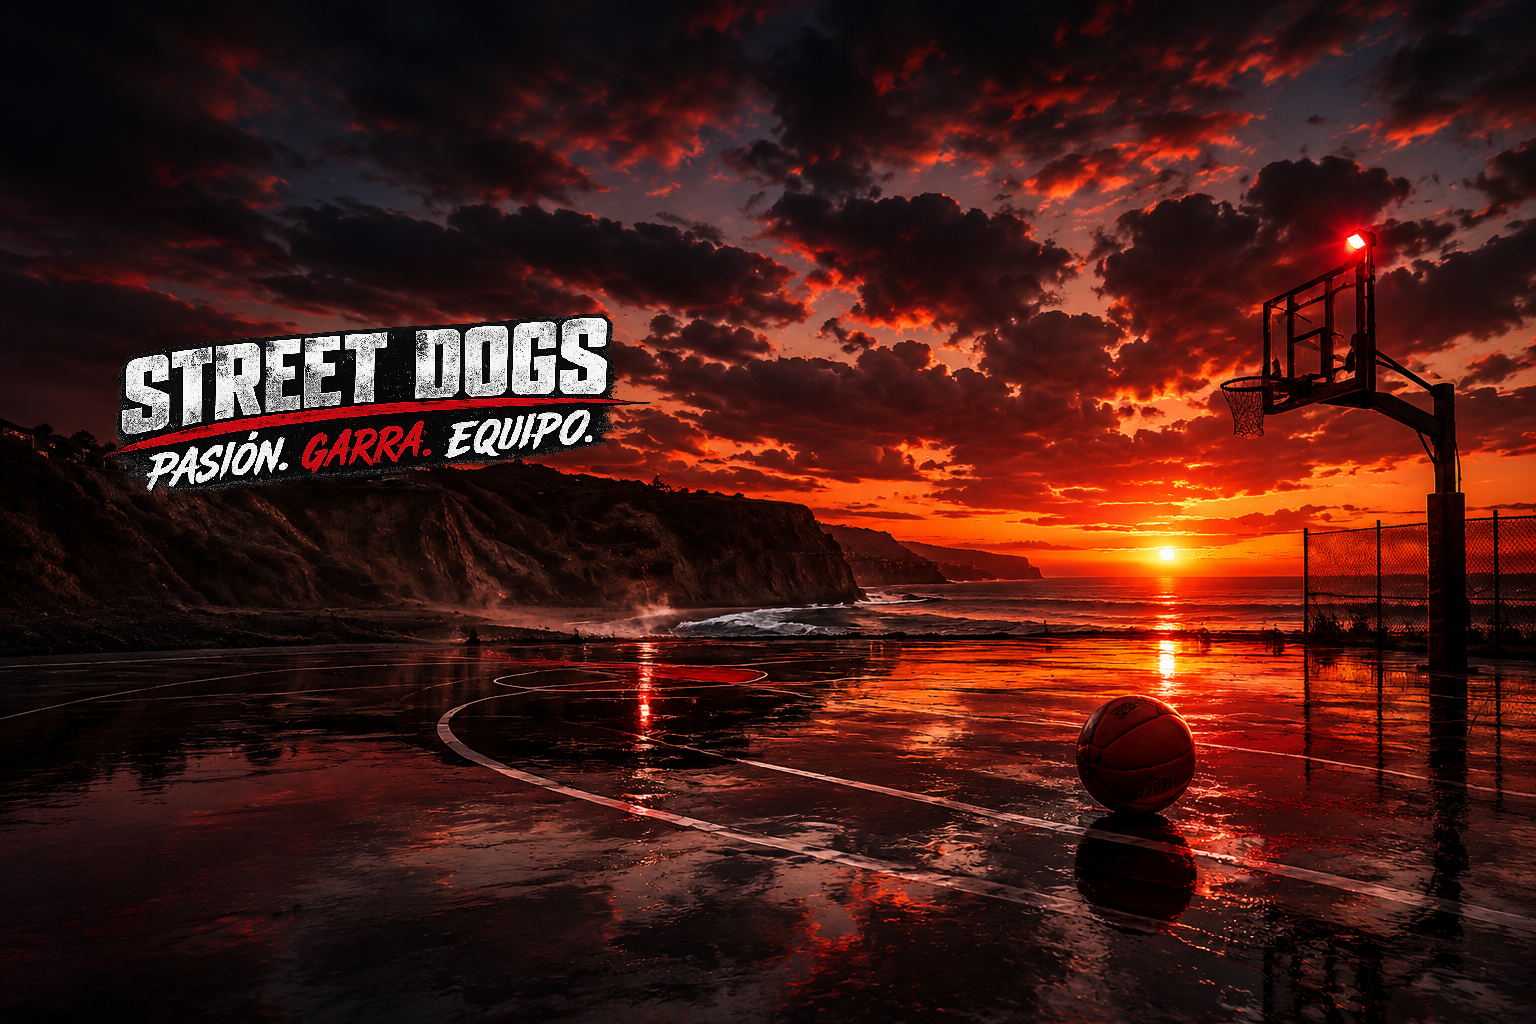
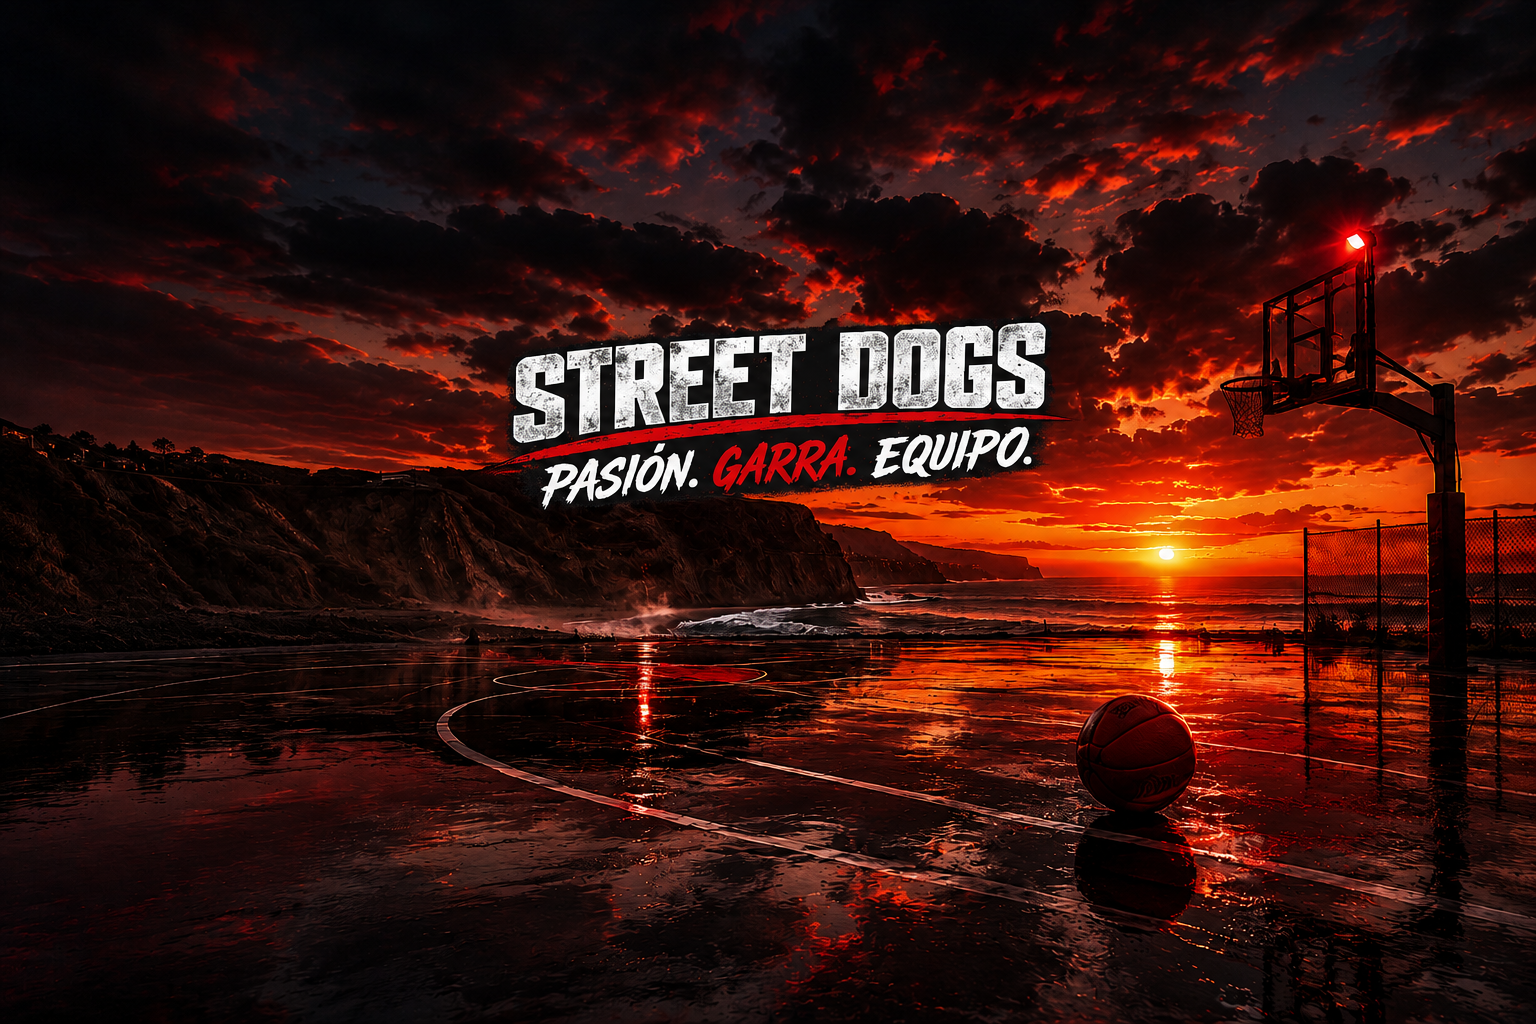
ajuste hero para celularr

diff --git a/src/app/page.tsx b/src/app/page.tsx
@@ -69,7 +69,7 @@ export default async function HomePage() {
       <Navbar logoUrl={team.logo_url} />
 
       {/* HERO SECTION */}
-      <section id="home" className="relative h-screen flex items-end justify-start overflow-hidden px-6 sm:px-12 lg:px-24 pb-48">
+      <section id="home" className="relative h-screen flex items-end justify-center overflow-hidden px-6 sm:px-12 lg:px-24 pb-32">
         {/* Background Image with Cinematic Red/Black Overlay */}
         <div className="absolute inset-0 z-0">
           <div className="absolute inset-0 bg-gradient-to-r from-black/40 to-transparent z-10" />
@@ -84,12 +84,12 @@ export default async function HomePage() {
         </div>
 
         {/* Hero Content */}
-        <div className="relative z-20 max-w-3xl text-left space-y-6 animate-fade-in-up">
-          <p className="font-sans text-2xl sm:text-4xl tracking-[3px] font-black uppercase drop-shadow-[0_4px_10px_rgba(0,0,0,0.5)] animate-digital-text">
+        <div className="relative z-20 max-w-3xl text-center space-y-6 animate-fade-in-up">
+          <p className="font-sans text-lg sm:text-2xl tracking-[3px] font-black uppercase drop-shadow-[0_4px_10px_rgba(0,0,0,0.5)] animate-digital-text">
             <span className="text-white">MÁS QUE UN EQUIPO, </span>
-            <span className="shimmer-text">UNA FAMILIA.</span>
+            <span className="shimmer-text">UNA FAMILIA</span>
           </p>
-          <div className="pt-4 flex flex-wrap gap-4">
+          <div className="pt-4 flex flex-wrap gap-4 justify-center">
             <a
               href="#equipo"
               className="inline-flex items-center gap-2 px-8 py-3 border-2 border-primary hover:bg-primary text-white font-bold rounded-full transition-all shadow-[0_0_15px_rgba(200,16,46,0.3)] text-xs tracking-wider uppercase"